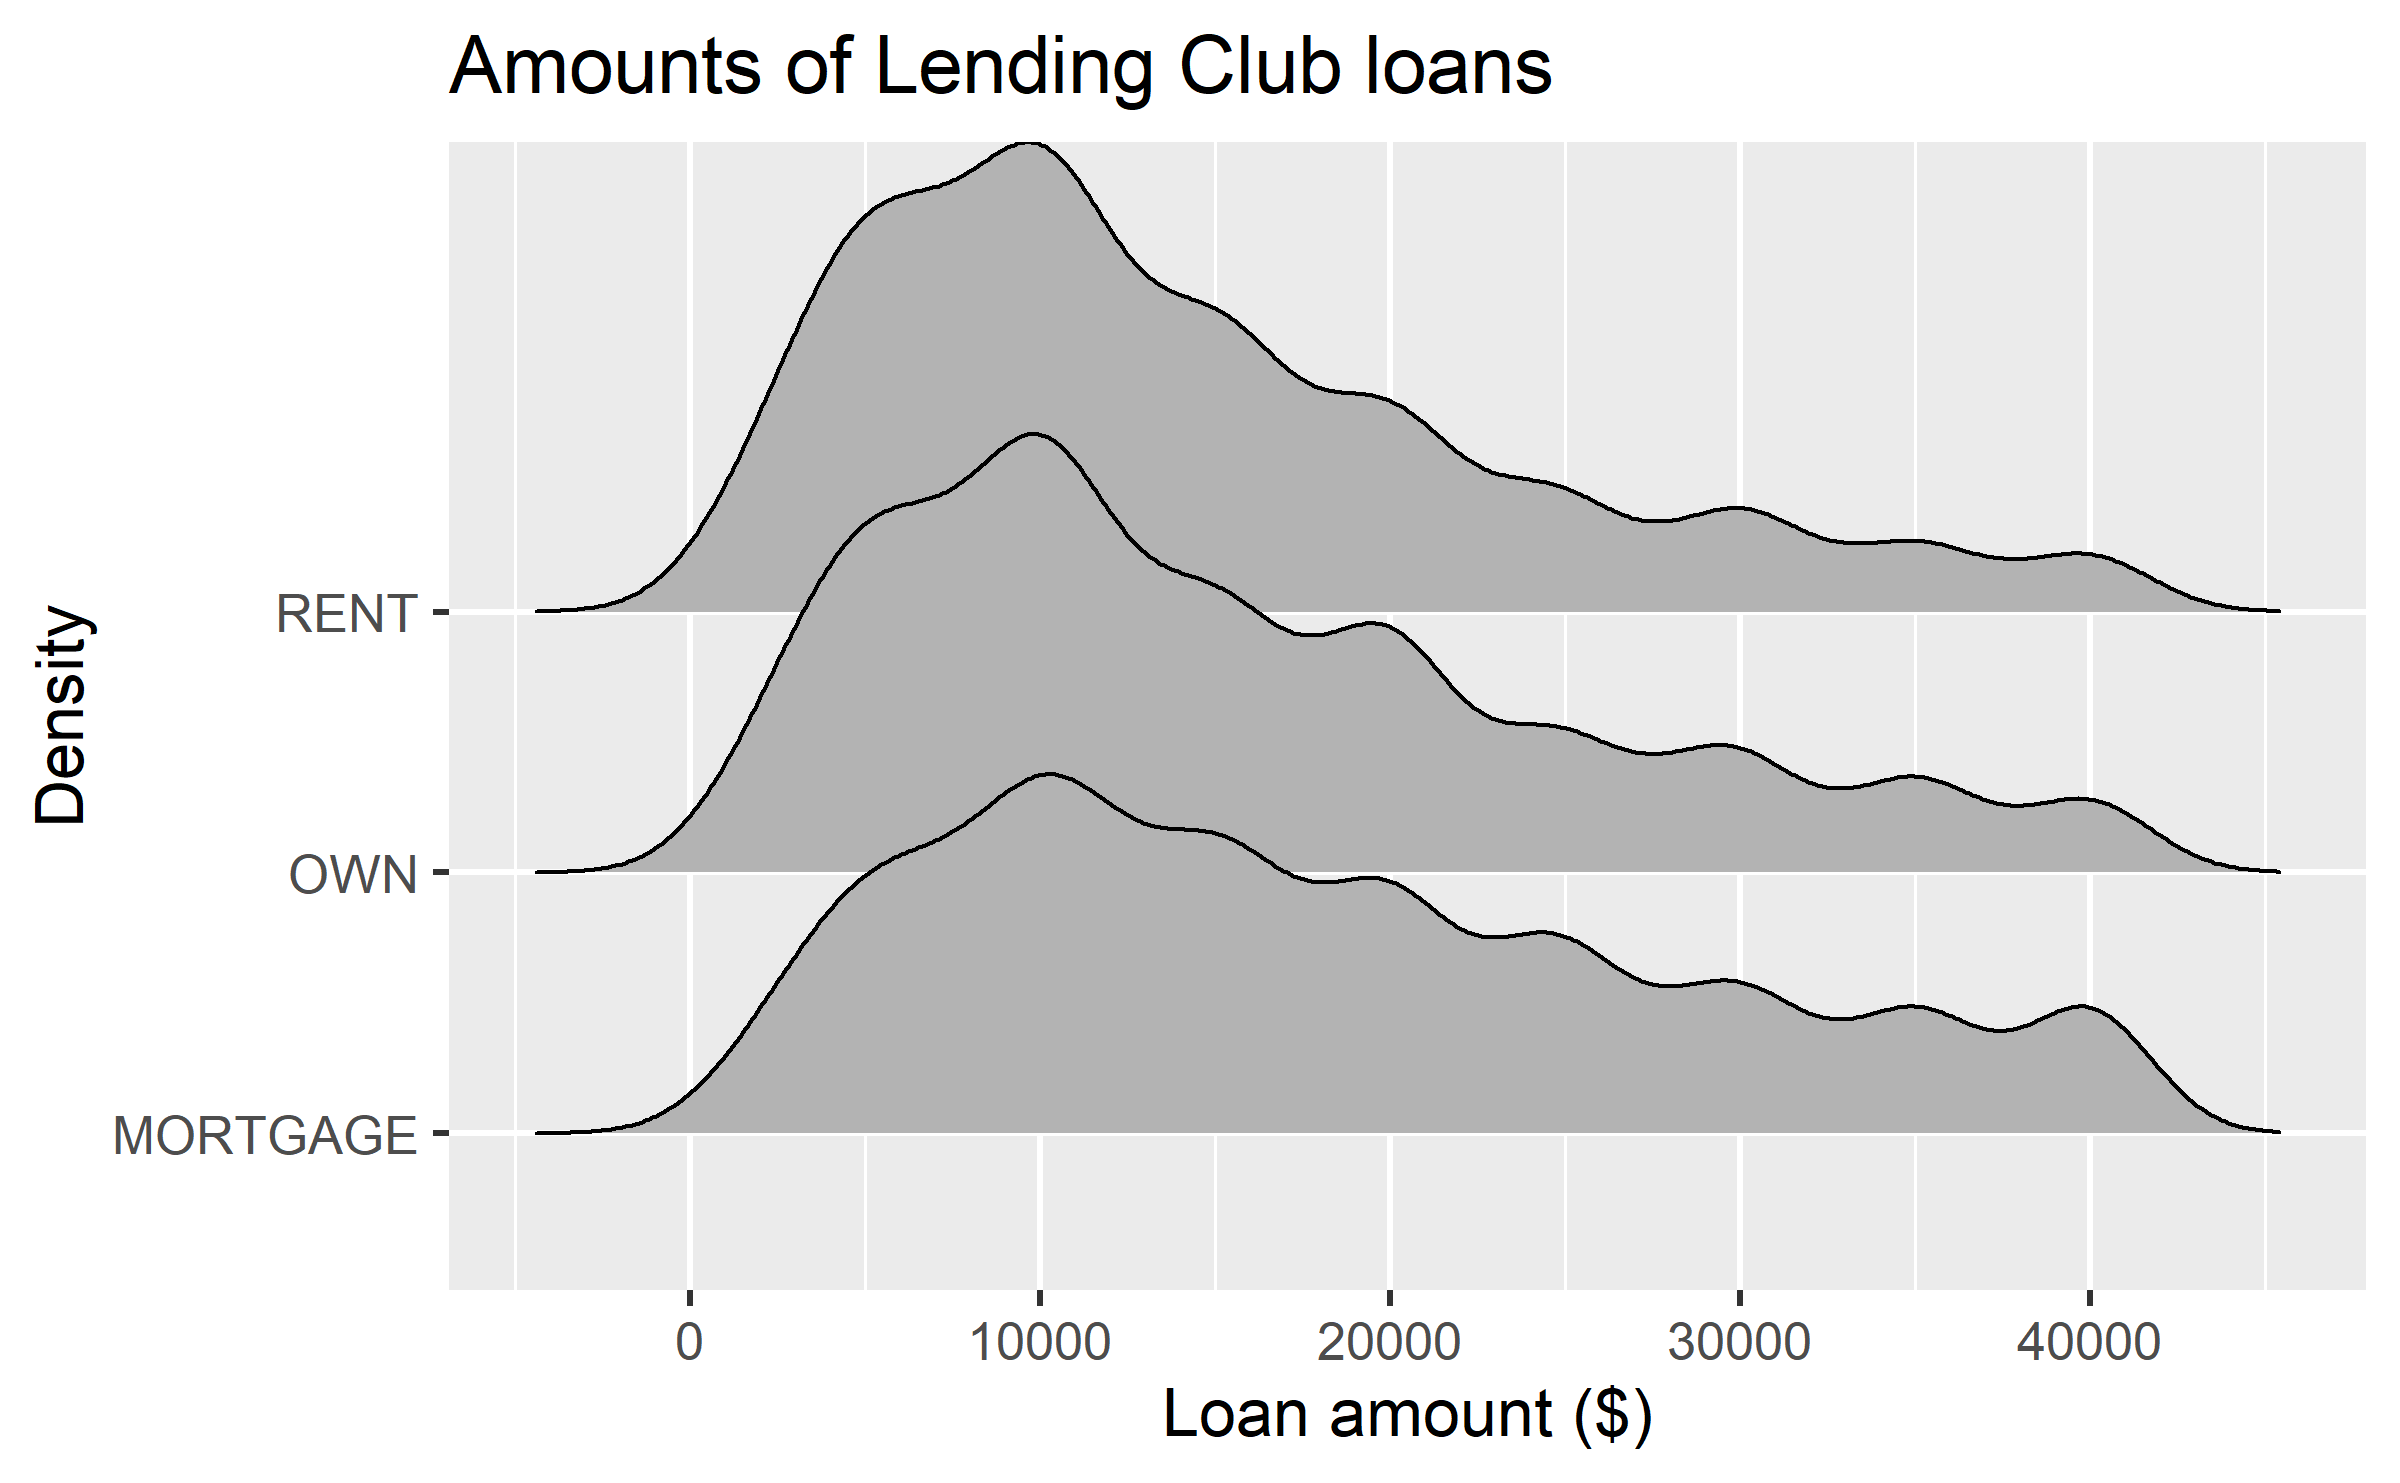
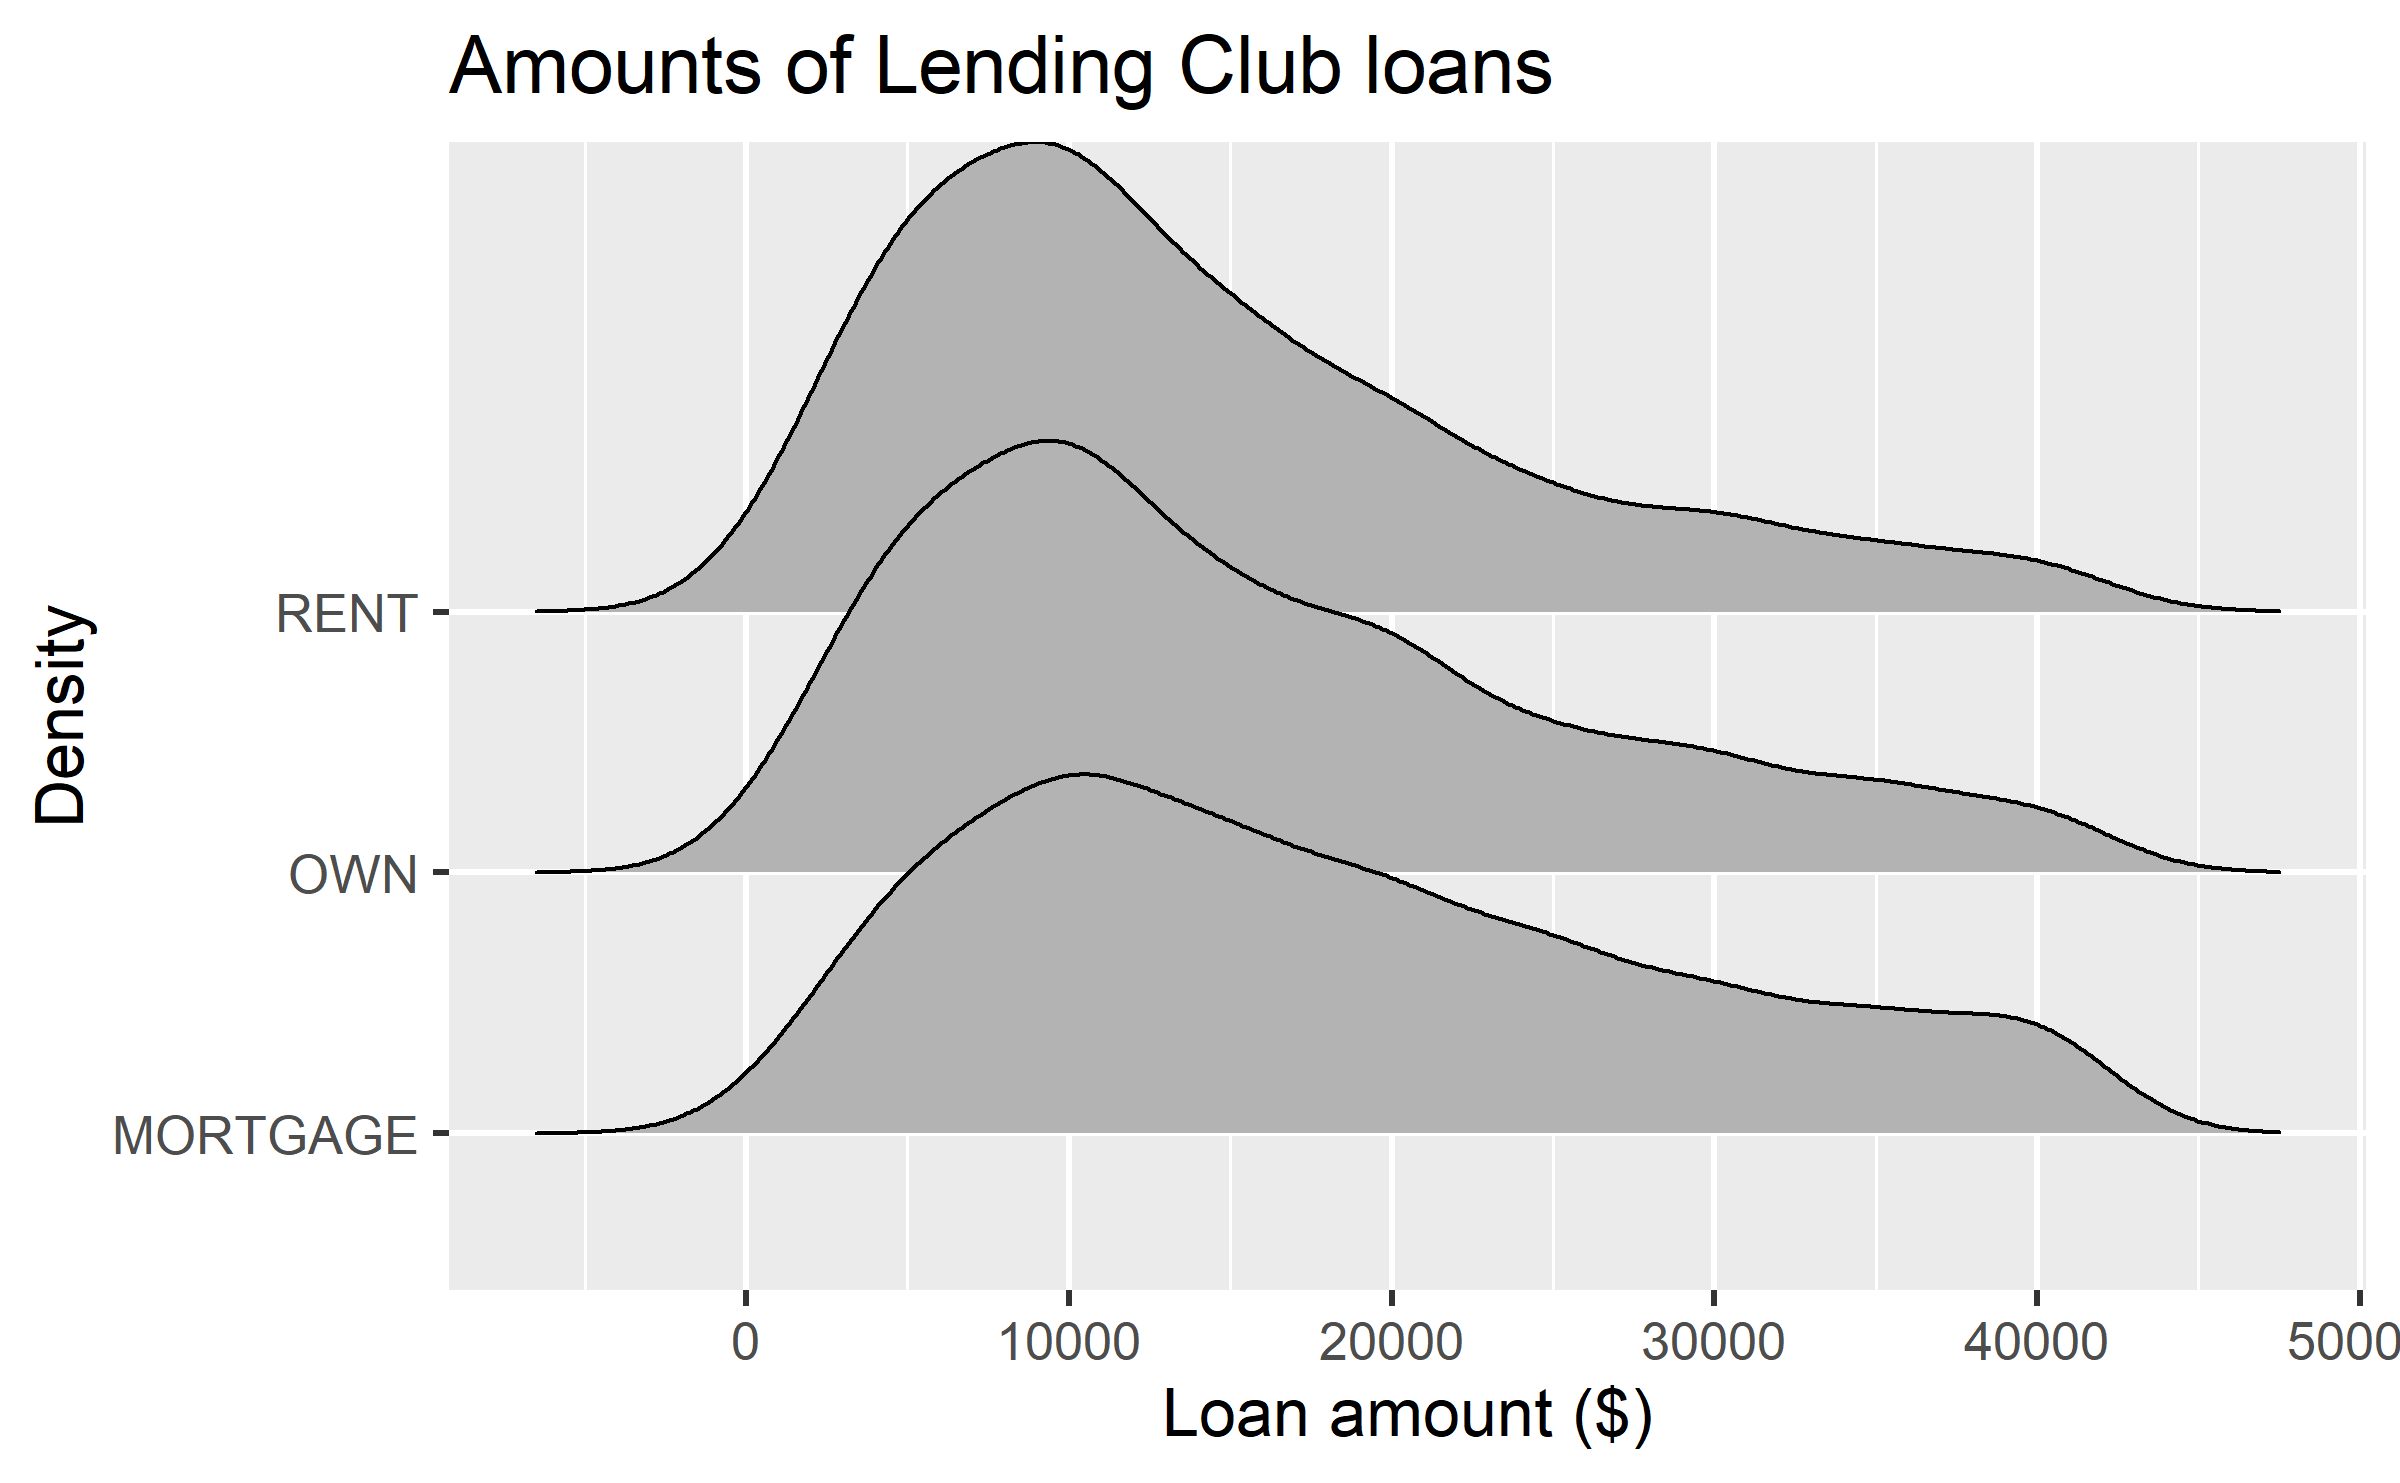
summarizing numerical data

diff --git a/slides/02-data-viz/d02-viz-num.html b/slides/02-data-viz/d02-viz-num.html
@@ -29,17 +29,6 @@ class: center, middle, inverse, title-slide
 
 
 
-## 1. Exploratory Data Analysis (EDA)
-
-- EDA is an approach to analyzing data sets to summarize its main characteristics.
-
-- Often, this is visual (graphs, tables). 
-
-- But we also calculate numerical summaries at this stage.
-
-
-
----
 class: top left
 
 ### Why visualize? 
@@ -468,9 +457,9 @@ ggplot(data = loans, mapping = aes(x = loan_amount,
 
 ```r
 *library(ggridges)
-ggplot(data=loans, mapping=aes(x = loan_amount, 
+ggplot(data = loans, mapping = aes(x = loan_amount, 
 *                 y = homeownership)) +
-* geom_density_ridges( ) +
+* geom_density_ridges(bandwidth = 2500 ) +
   labs(
     x = "Loan amount ($)",
     y = "Density",
@@ -480,13 +469,13 @@ ggplot(data=loans, mapping=aes(x = loan_amount,
 ]
 ]
 
----
+???
 
 class: middle
 
 # Box plot
 
----
+
 
 ## Box plot
 
@@ -497,7 +486,7 @@ ggplot(data = loans, mapping = aes(x = interest_rate)) +
 ```
 
 &lt;img src="d02-viz-num_files/figure-html/box-1.png" width="60%" style="display: block; margin: auto;" /&gt;
----
+
 
 ## Customizing box plots
 
@@ -523,7 +512,6 @@ ggplot(data = loans, mapping = aes(x = interest_rate)) +
 ]
 ]
 
----
 
 ## Adding a categorical variable
 
@@ -581,15 +569,15 @@ ggplot(data = loans, mapping = aes(x = annual_income, y=loan_amount, color = hom
 .left-column[#<svg aria-hidden="true" role="img" viewBox="0 0 640 512" style="height:1em;width:1.25em;vertical-align:-0.125em;margin-left:auto;margin-right:auto;font-size:inherit;fill:white;overflow:visible;position:relative;"><path d="M255.03 261.65c6.25 6.25 16.38 6.25 22.63 0l11.31-11.31c6.25-6.25 6.25-16.38 0-22.63L253.25 192l35.71-35.72c6.25-6.25 6.25-16.38 0-22.63l-11.31-11.31c-6.25-6.25-16.38-6.25-22.63 0l-58.34 58.34c-6.25 6.25-6.25 16.38 0 22.63l58.35 58.34zm96.01-11.3l11.31 11.31c6.25 6.25 16.38 6.25 22.63 0l58.34-58.34c6.25-6.25 6.25-16.38 0-22.63l-58.34-58.34c-6.25-6.25-16.38-6.25-22.63 0l-11.31 11.31c-6.25 6.25-6.25 16.38 0 22.63L386.75 192l-35.71 35.72c-6.25 6.25-6.25 16.38 0 22.63zM624 416H381.54c-.74 19.81-14.71 32-32.74 32H288c-18.69 0-33.02-17.47-32.77-32H16c-8.8 0-16 7.2-16 16v16c0 35.2 28.8 64 64 64h512c35.2 0 64-28.8 64-64v-16c0-8.8-7.2-16-16-16zM576 48c0-26.4-21.6-48-48-48H112C85.6 0 64 21.6 64 48v336h512V48zm-64 272H128V64h384v256z"/></svg>]
 .right-column[
 
-1. .left[ Go to [JupyterHub]( https://jupyter.rttl.uw.edu/2022-summer-upward-bound-stat/user-redirect/rstudio)  https://jupyter.rttl.uw.edu/2022-summer-upward-bound-stat/user-redirect/rstudio)]
+1. Go to [JupyterHub]( https://jupyter.rttl.uw.edu/2022-summer-upward-bound-stat/user-redirect/rstudio) 
 
-1. .left[ Let's work on problems 1 - 3 from `visualizing-data.Rmd` in the live-coding sub-folder]
+1. Let's work on problems 1 - 3 from `visualizing-data.Rmd` in the live-coding sub-folder
 
 
 ]
 
 
- <div class="countdown" id="timer_62c9cd9e" style="right:0;bottom:0;" data-warnwhen="0">
+ <div class="countdown" id="timer_62ce3ba5" style="right:0;bottom:0;" data-warnwhen="0">
 <code class="countdown-time"><span class="countdown-digits minutes">40</span><span class="countdown-digits colon">:</span><span class="countdown-digits seconds">00</span></code>
 </div>
 
